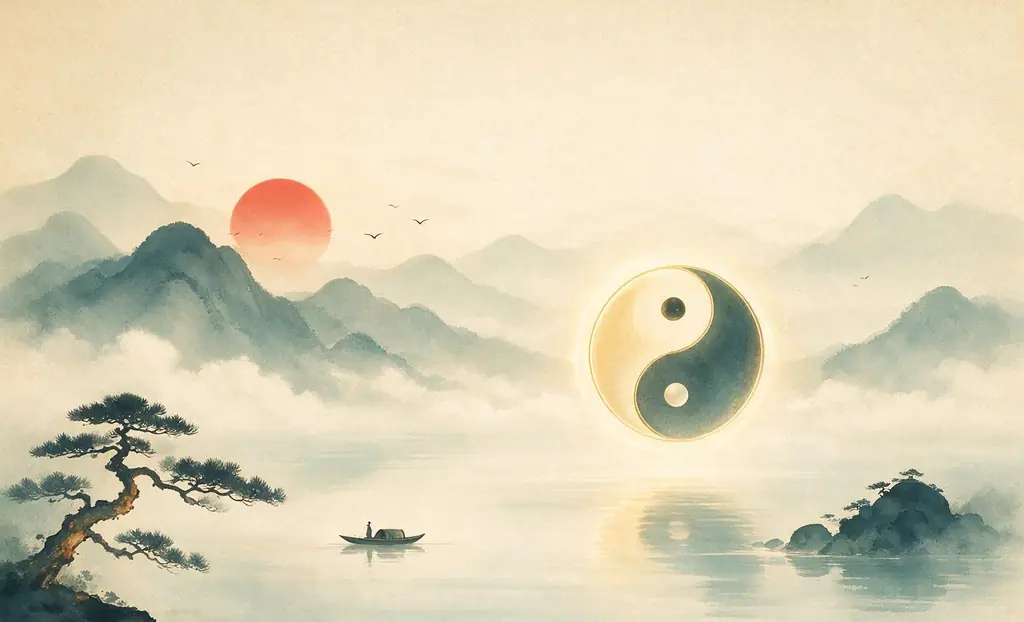
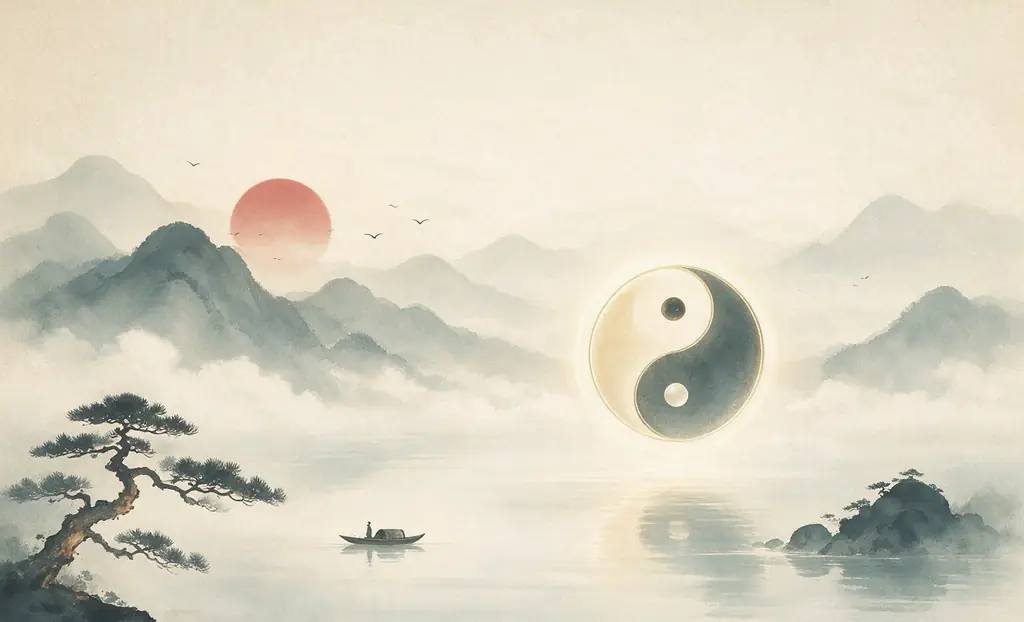
style: 题图降彩并收成居中画心，让位给正文
- 生成期降彩 0.65 并向 --paper 淡染 9%，九张题图饱和度 0.33 -> 0.21，
  与站点纸墨基调同档，不再是全页唯一高彩块；体积 519KB -> 444KB
- 首页画心 620px、内页 .page-art/.lesson-art 680px 居中，
  通栏大图不再把每日一卦与关卡列表挤出首屏

diff --git a/src/style.css b/src/style.css
@@ -56,11 +56,13 @@ a { color: inherit; text-decoration: none; }
 .page-sub { font-size: 13px; color: var(--muted); margin-bottom: 18px; }
 .progress-track { height: 8px; background: var(--paper-2); border-radius: 4px; overflow: hidden; }
 .progress-fill { height: 100%; background: var(--cinnabar); border-radius: 4px; transition: width .3s; }
-/* 位图题图统一外观：圆角 + 细边框，弱网下由 LazyImage 占位 */
+/* 位图题图统一外观：圆角 + 细边框，弱网下由 LazyImage 占位。
+   收成居中画心，避免通栏大图把正文挤出首屏 */
 .page-art {
   width: 100%;
+  max-width: 680px;
   border-radius: 12px;
   border: 1px solid var(--line);
   overflow: hidden;
-  margin: 0 0 16px;
+  margin: 0 auto 16px;
 }

diff --git a/src/views/LessonsView.vue b/src/views/LessonsView.vue
@@ -128,10 +128,11 @@ function nextQuestion() {
 .chapter { margin-bottom: 20px; }
 .lesson-art {
   width: 100%;
+  max-width: 680px;
   border-radius: 12px;
   border: 1px solid var(--line);
   overflow: hidden;
-  margin-bottom: 16px;
+  margin: 0 auto 16px;
 }
 .ch-banner { width: 100%; display: block; border-radius: 10px; border: 1px solid var(--line); margin-bottom: 8px; }
 .ch-name { margin-bottom: 10px; color: var(--ink-2); font-size: 15px; }

diff --git a/src/views/HomeView.vue b/src/views/HomeView.vue
@@ -89,8 +89,9 @@ const modules = [
 .hero { width: 100%; display: block; border-radius: 14px; margin-bottom: 14px; border: 1px solid var(--line); }
 .photo-hero {
   width: 100%;
+  max-width: 620px;
   border-radius: 14px;
-  margin-bottom: 14px;
+  margin: 0 auto 14px;
   border: 1px solid var(--line);
   overflow: hidden;
 }

diff --git a/scripts/compress_images.py b/scripts/compress_images.py
@@ -5,7 +5,7 @@
 # 直接落盘会让线上图片解码失败、页面留下空白占位块。
 #
 # 用法：python scripts/compress_images.py | node scripts/write_images.js
-from PIL import Image
+from PIL import Image, ImageEnhance
 import base64, io, os
 
 SRC_DIR = "vibe_images"
@@ -15,6 +15,10 @@ MAX_W = 1024
 QUALITY = 72
 # 出图工具在右下角压了半透明水印，裁掉的底部高度与图宽成正比（1280 宽时为 76px）
 WM_BOTTOM_RATIO = 76 / 1280
+# 站点是纸+墨（--paper 饱和度约 0.05），出图原样放上去会成为全页唯一高彩块、压过正文
+SATURATION = 0.65
+PAPER_WASH = 0.09
+PAPER_RGB = (0xFA, 0xF6, 0xED)  # 与 style.css 的 --paper 对齐
 
 for fn in sorted(os.listdir(OUT_DIR)):
     if not fn.endswith(".webp"):
@@ -24,6 +28,8 @@ for fn in sorted(os.listdir(OUT_DIR)):
         im = im.resize((MAX_W, round(im.size[1] * MAX_W / im.size[0])), Image.LANCZOS)
     w, h = im.size
     im = im.crop((0, 0, w, h - round(w * WM_BOTTOM_RATIO)))
+    im = ImageEnhance.Color(im).enhance(SATURATION)
+    im = Image.blend(im, Image.new("RGB", im.size, PAPER_RGB), PAPER_WASH)
     buf = io.BytesIO()
     im.save(buf, "WEBP", quality=QUALITY, method=6)
     print(f"{fn}\t{base64.b64encode(buf.getvalue()).decode()}")
